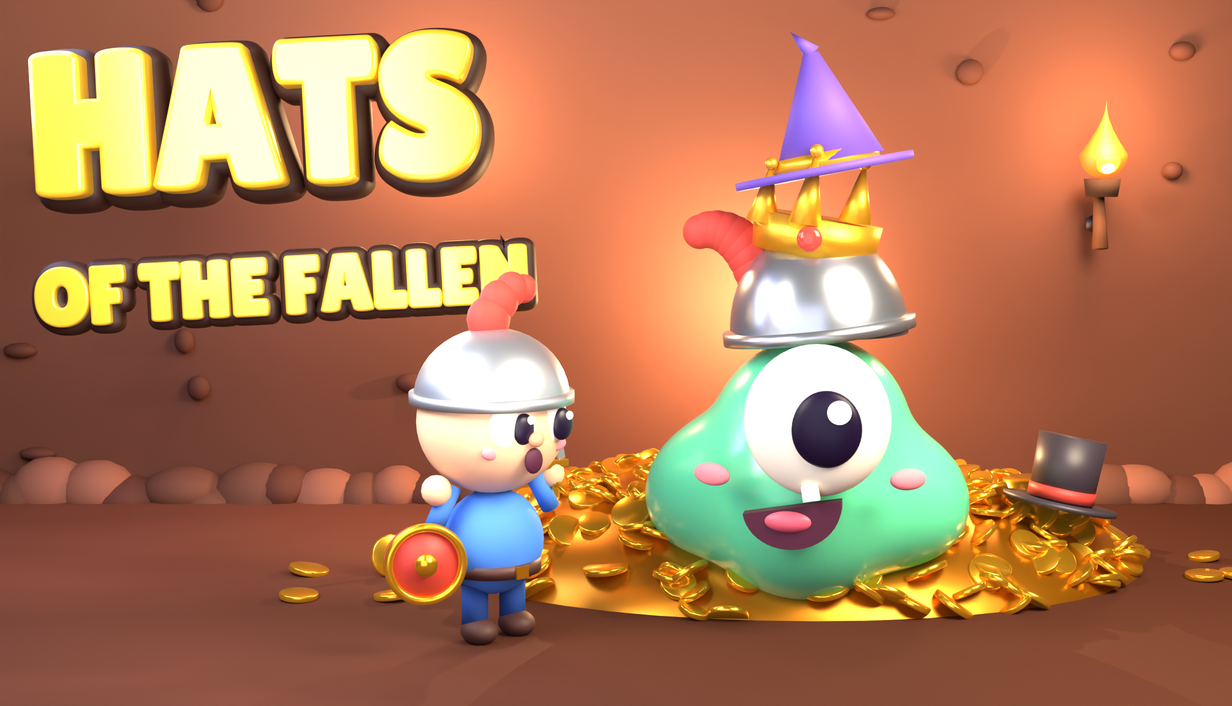
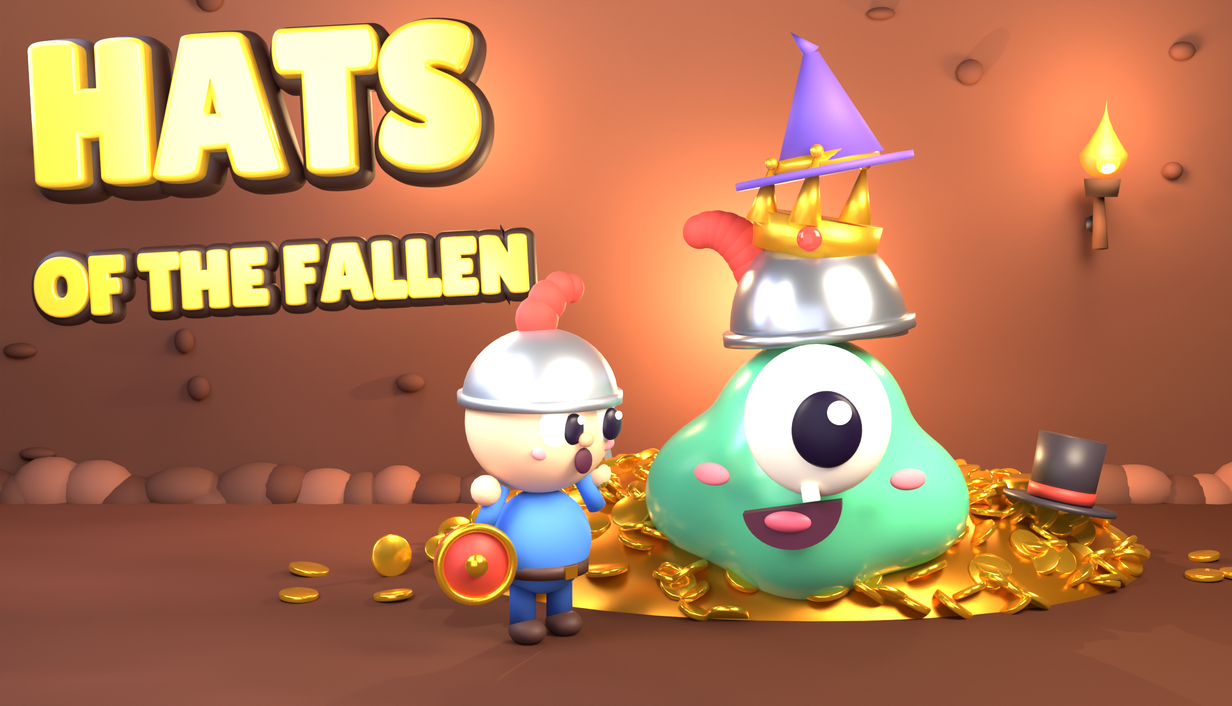
Mila: hoofdbeeld pluim vrij van de N (moet Daan 18:50)
Claude-Session: https://claude.ai/code/session_01RMWUyg2X1grYUR6TxXPvb1

diff --git a/ontwerp/steam/capsule-3d/capsule3d.py b/ontwerp/steam/capsule-3d/capsule3d.py
@@ -89,7 +89,7 @@ HOOFD = VARIANT == "hoofd"
 def E(naam, gewoon):
     return float(os.environ.get(naam, gewoon))
 GX = (2.35 if not HOOFD else E("HF_GX", "1.8")) if not KLEIN else 3.3         # Gloop rechts van het midden
-RX = float(os.environ.get("HEADER_RX", "-0.1" if not HOOFD else os.environ.get("HF_RX", "-0.6"))) if not KLEIN else 1.15       # ridder
+RX = float(os.environ.get("HEADER_RX", "-0.1" if not HOOFD else os.environ.get("HF_RX", "-0.25"))) if not KLEIN else 1.15       # ridder
 RY = float(os.environ.get("HEADER_RY", "-1.95")) if not KLEIN else -1.35   # ronde 5: -2,2 werd -1,95, laarzen verder van de onderrand
 RS = (1.2 if not HOOFD else E("HF_RS", "1.3")) if not KLEIN else 1.5
 
@@ -295,7 +295,7 @@ if KLEIN:
     tekst("HATS", (-4.75, -0.6, 1.85), 2.0, kantel=-3)
     tekst("OF THE FALLEN", (-4.7, -0.6, 0.98), 0.86, kantel=-3, rand=0.11 if KLEUR_H else 0.07)
 elif HOOFD:
-    tx, tz = E("HF_TX", "-4.3"), E("HF_TZ", "0.32")
+    tx, tz = E("HF_TX", "-4.3"), E("HF_TZ", "0.40")
     tekst("HATS", (tx, -0.6, 2.55 + tz), 1.75, kantel=-3)
     tekst("OF THE FALLEN", (tx - 0.05, -0.6, 1.70 + tz), 0.72, kantel=-3, rand=0.11)
 else:

diff --git a/ontwerp/steam/capsule-3d/LEESMIJ.md b/ontwerp/steam/capsule-3d/LEESMIJ.md
@@ -147,3 +147,8 @@ Het spel is sinds vandaag warm (kleur H op main). Een paarse capsule zou dus nie
 - **Bibliotheek en staand (`staand3d.py`):** zachte donkere vlek op de wand achter de titel (vlak dat naar de rand doorzichtig wordt, `ST_SCHADUW`, sterkte `ST_SV_A` 0,85), titel 0,25 lager (minder gat naar de toren), camera iets lager gericht zodat de figuren omhoog komen, ridder naar binnen (ST_RX 0,15 werd 0,4, schild weg van de rand). Sterkte 0,6 en 0,85 naast elkaar GEZIEN; 0,6 zag je bijna niet.
 - **Blinde kijker** (200x300): oud 7, nieuw 7, kiest nieuw ("rustiger, titel en slijm lezen schoner"). Klein verschil, maar het lost Daans kan en de moet van 16:20 op zonder iets te verliezen.
 - Les: een plat vlak heeft in Blender geen diepte in `Generated`; een bolvormig verloop moet de z dan op 0 zetten, anders is het overal 0.
+
+## 15 nov ±20:40 tot 20:55 UTC (Mila): moet hoofdbeeld, pluim vrij van de N (keuring Daan 18:50)
+- Titel 0,08 hoger (`HF_TZ` 0,32 werd 0,40) en ridder iets naar rechts (`HF_RX` -0,6 werd -0,25). Alleen titel hoger lukte niet: HATS staat al bijna tegen de bovenrand, en 12 px hoger raakte de pluim nog steeds. Ridder kleiner (`HF_RS` 1,2) gaf ook vrij, maar dan wordt de held weer klein; dat wilde ik niet.
+- Vijf proeven (a tot e) GEZIEN met Read; `d` gekozen. Nu zit er ±15 px lucht tussen de punt van de pluim en de N, de ridder staat nog los van Gloop. Header, klein, bibliotheek en staand veranderen niet.
+- Voor en na (links oud, rechts nieuw, uitsnede van de titel): `voor-na-pluim-15nov.png`, GEZIEN met Read.
